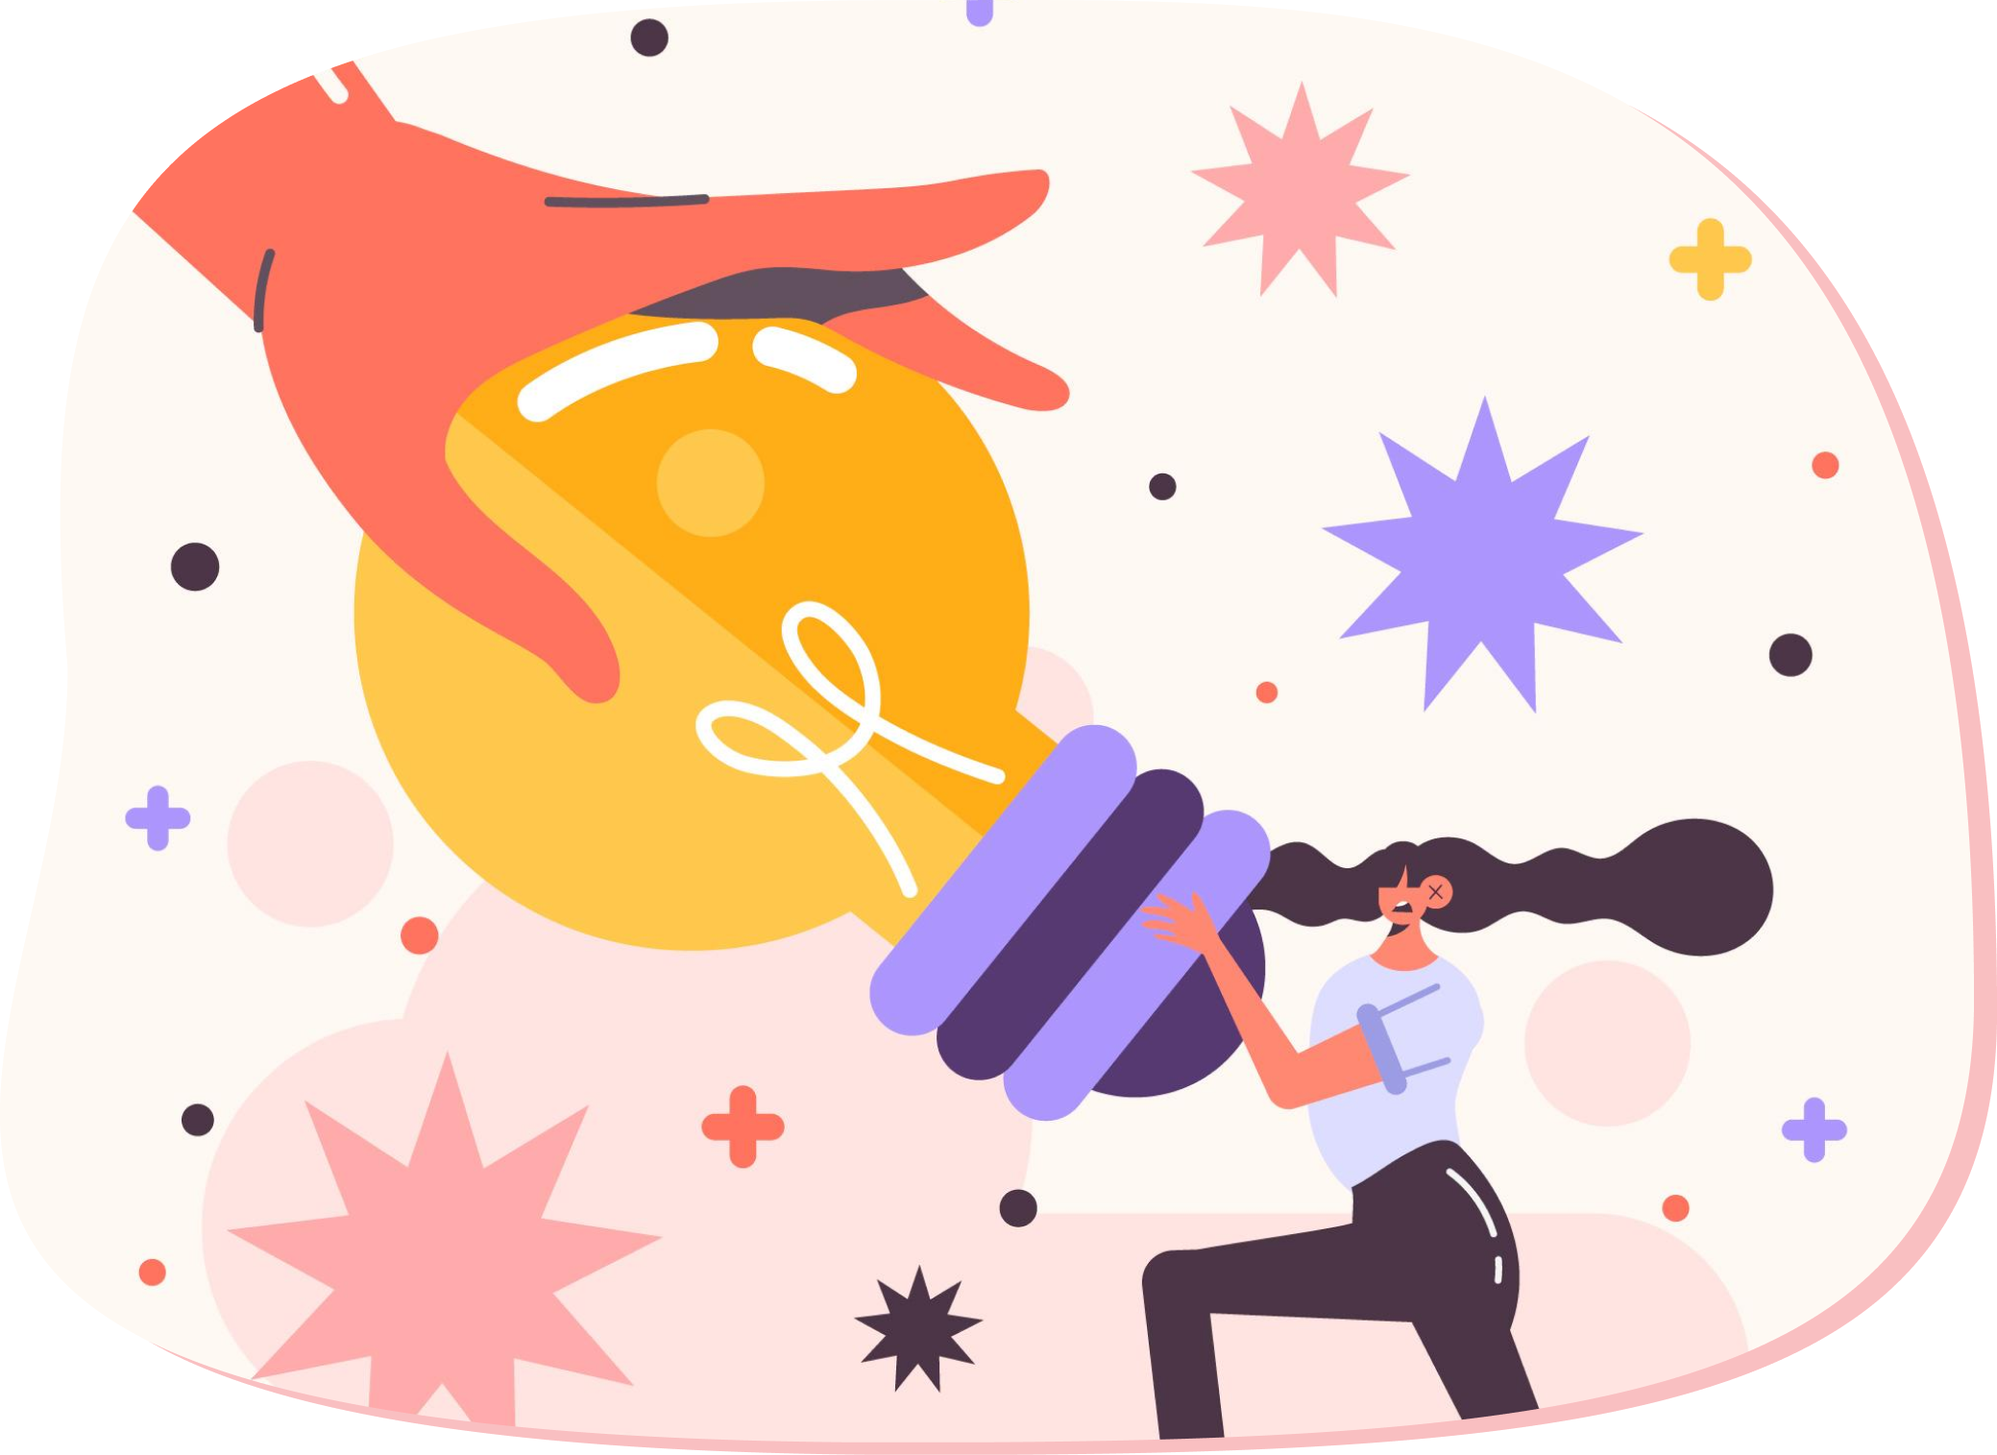
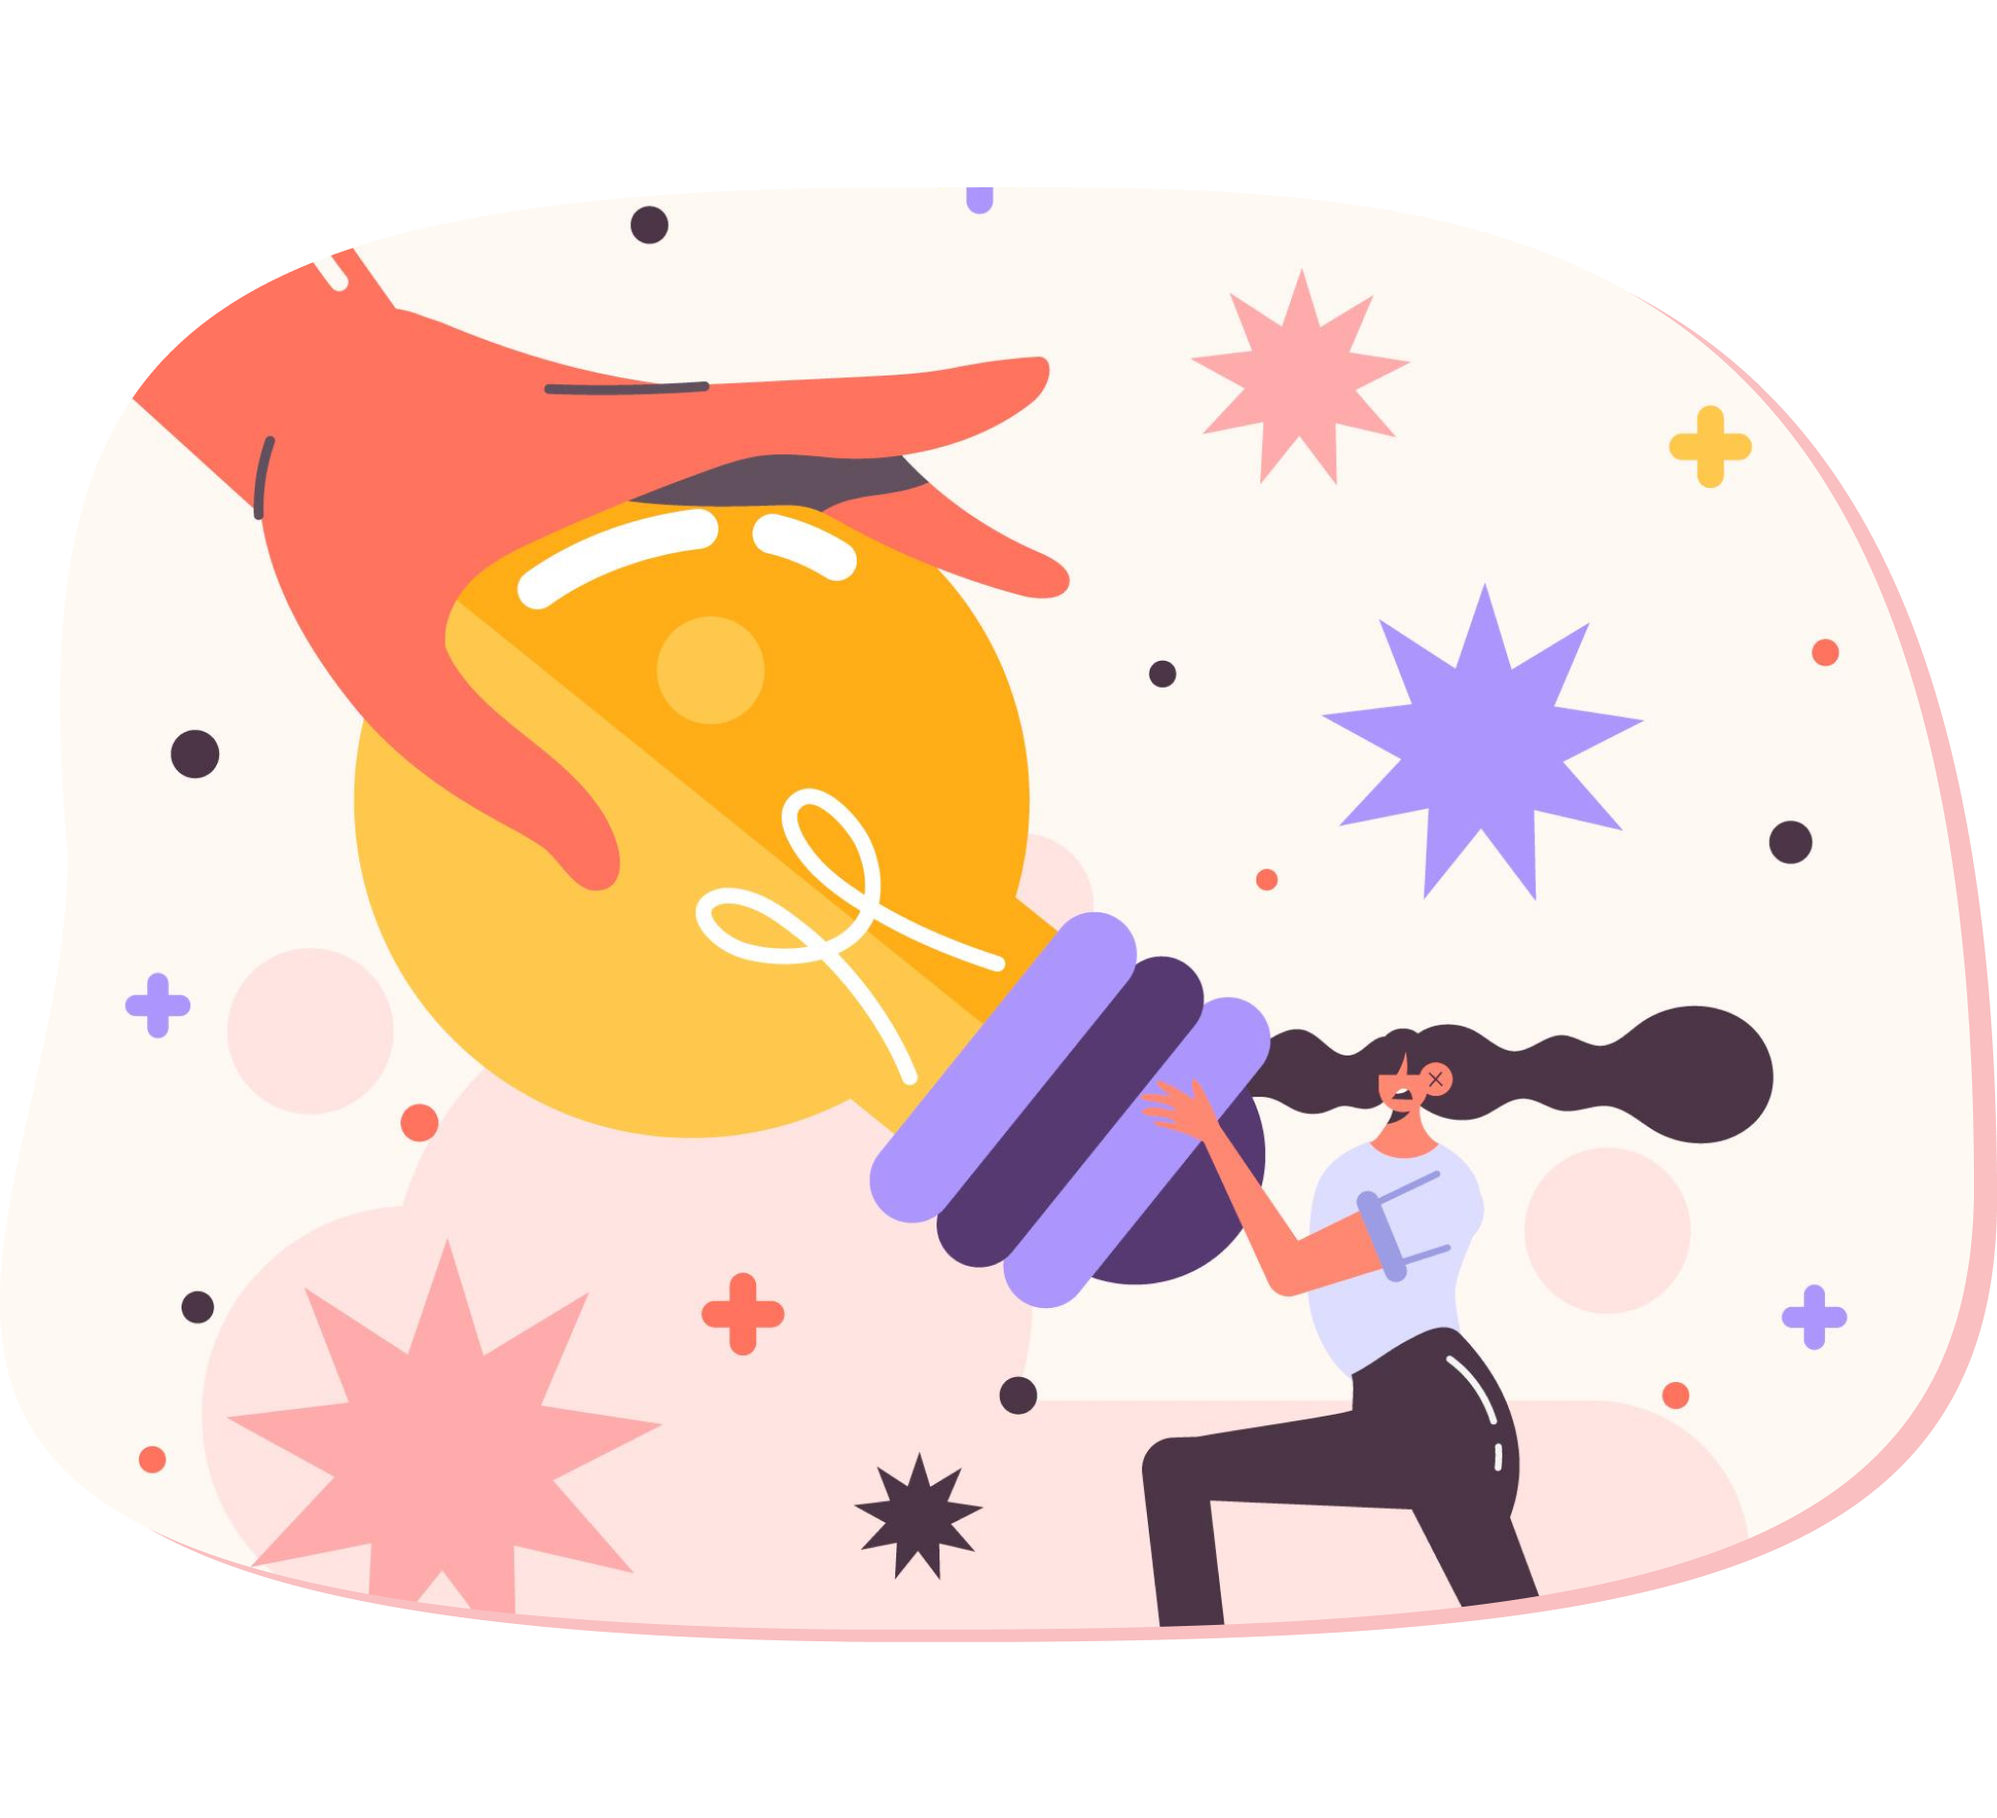
update: actually fixed responsive image

diff --git a/src/pages/Home/index.jsx b/src/pages/Home/index.jsx
@@ -7,7 +7,7 @@ export default function () {
     <>
       <div className="container-fluid bg-red-100">
         <div className="container mx-auto lg:px-0 px-6 py-32">
-          <div className="grid grid-cols-12 lg:gap-0 gap-10">
+          <div className="grid grid-cols-12">
             <div className="lg:col-span-6 lg:gap-10 col-span-12 gap-6 flex flex-col">
               <div className="flex flex-col gap-2">
                 <Typography type="head-res-lg-medium">
@@ -42,8 +42,8 @@ export default function () {
               </div>
             </div>
 
-            <div className="lg:col-start-8 lg:col-span-5 lg:gap-10 col-span-12 gap-6">
-              <img src={CreativityImg} className="w-fit" alt="" />
+            <div className="lg:col-start-8 lg:col-span-5 col-span-12">
+              <img src={CreativityImg} alt="" />
             </div>
           </div>
         </div>
